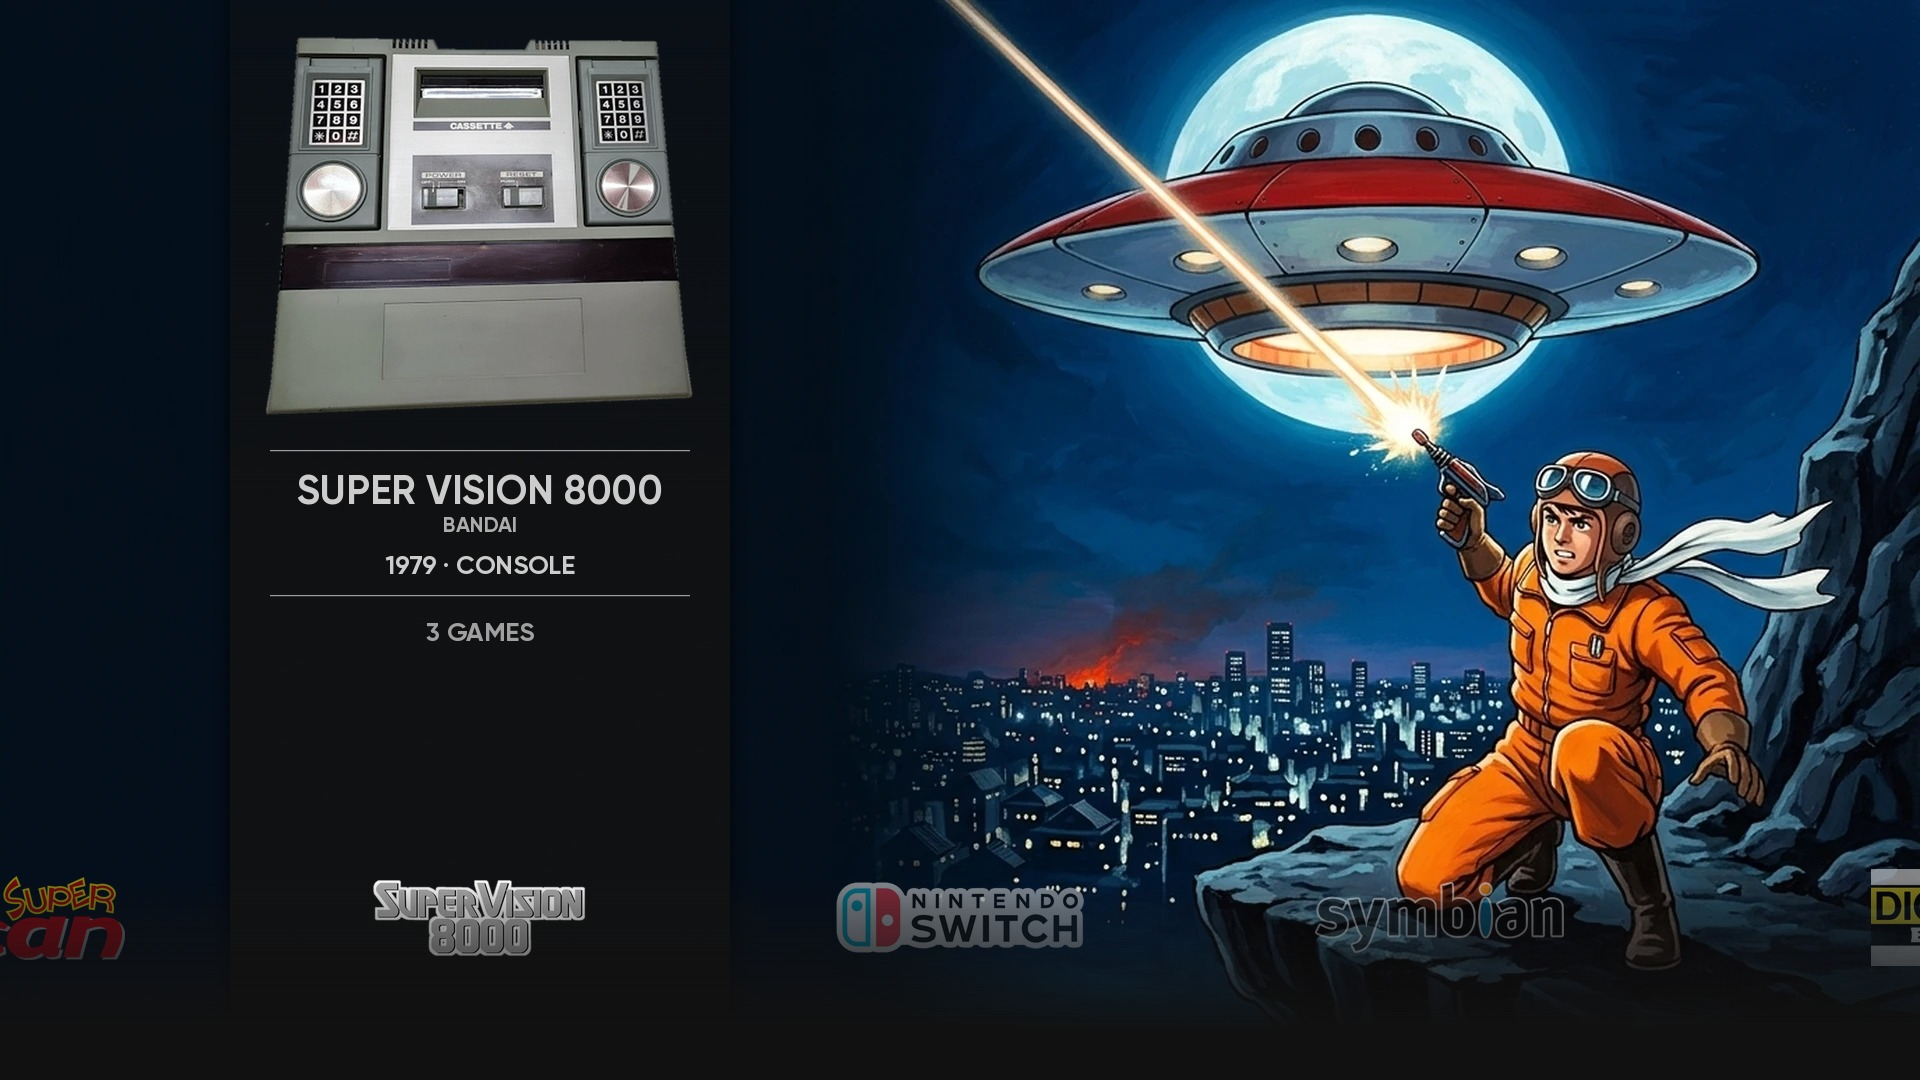
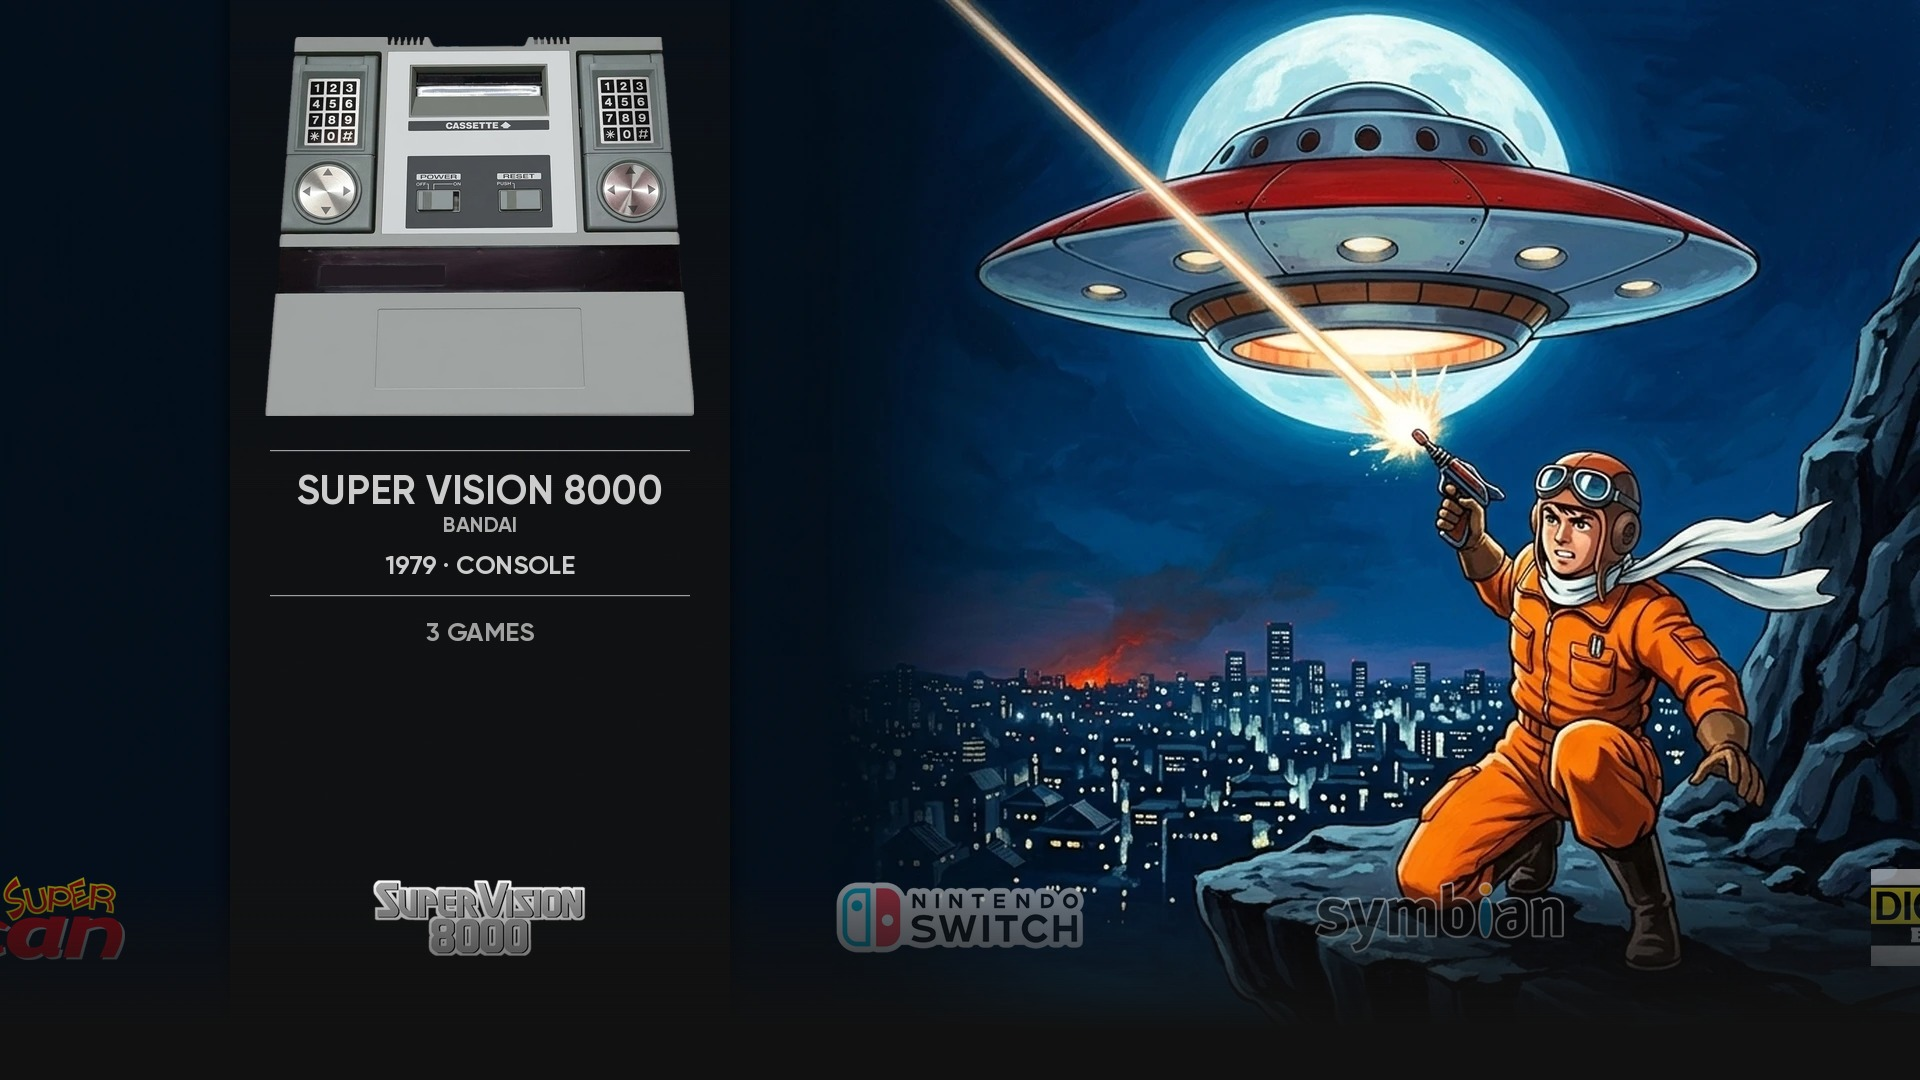
Super Vision 8000: straighten console image
Gemini top-down re-render of the Carbon photo, levelled and symmetrised locally. Old skewed version kept in replaced/.

Claude-Session: https://claude.ai/code/session_01B7tWnGzhwYXUpjDmxMAoUT

Changed region(s): [[0.125, 0.0306, 0.375, 0.3972]]

diff --git a/TODO.md b/TODO.md
@@ -115,7 +115,7 @@ Every system in the PixN build that the original Iconic theme has no art for, wi
 | - [x] | segasystem32 | System 32 | Golden Axe-style barbarian (Gemini) - installed | custom: Gemini-generated early-90s Sega upright cabinet (green screen) | custom |  |
 | - [x] | sorcerer | Sorcerer | Sorcerer vs dragon cavern (Gemini) - installed | custom: Gemini top-down render from the Carbon theme Sorcerer photo | custom |  |
 | - [x] | studio2 | Studio II | Bowling-style strike, giant marble ball vs ten pins (Gemini; built-in Studio II game) - installed | custom: RCA Studio II console photo (Carbon theme, transparent) cropped, 3/4 view | custom |  |
-| - [x] | sv8000 | Super Vision 8000 | Retro pilot vs saucer mothership over a night city (Gemini, generic) - installed | custom: Bandai Super Vision 8000 photo (Carbon theme) cut out | custom |  |
+| - [x] | sv8000 | Super Vision 8000 | Retro pilot vs saucer mothership over a night city (Gemini, generic) - installed | custom: Bandai Super Vision 8000 photo (Carbon theme), Gemini top-down re-render straightened 2026-10-10 | custom |  |
 | - [x] | tvc64 | TVC 64 | Hungarian warrior on winged horse vs three-headed dragon (Gemini) - installed | custom: Gemini top-down render of the Videoton TVC from a public-domain Wikimedia photo | custom |  |
 | - [x] | vemulator | Sega Visual Memory Unit | Round robot companion leaping over a neon ocean (Gemini, generic) - installed | custom: Dreamcast VMU photo (Carbon theme, transparent) cropped and doubled | custom |  |
 | - [x] | vg5k | VG-5000 | Deep-sea diver vs luminous jellyfish, sunken palace (Gemini) - installed | custom: Gemini top-down render of the Philips VG-5000 from the Carbon theme photo | custom |  |

diff --git a/NIGHTLY_LOG.md b/NIGHTLY_LOG.md
@@ -420,3 +420,4 @@ NAS SYNC PENDING (NAS not mounted): copy to /Volumes/stuff/Emulation/TPN Iconic 
 - Nights to complete: 14 at 5 per night (23 at 3 per night)
 
 - 2026-10-10 zinc REDONE after user feedback (side cabinets too faded): new Gemini three-cabinet group with glossy BLACK side cabinets and vivid vinyl (original SCHOOL CLASH and STAR KNIGHT games). Raw: sources/zinc/zinc_cab_3cab_v2_black_gemini_raw.jpeg; faded v1 kept as sources/zinc/zinc_cab_v1_faded.png and replaced/controllers-zinc-v1faded.webp. Installed _inc/controllers/zinc.webp, mockups/zinc.jpg. Lesson: for the side cabinets always say "glossy black bodies, fully saturated, NOT faded/grey" (also aleck64). NAS sync pending adds: new zinc raw and mockup; zip iconic-tpn_20261010_b.zip.
+- 2026-10-10 sv8000: console image straightened on user request (old Carbon photo was twisted/skewed). Gemini flat top-down render of the Carbon photo (sources/sv8000/sv8000_cab_gemini_straight_raw.jpeg), then levelled and made symmetrical locally with a perspective warp (sources/sv8000/sv8000_cab_straight.png). Old one: replaced/controllers-sv8000-skewed.webp. Note: Gemini drew the round knobs with small arrows (look like d-pads); NAS sync pending: mockups/sv8000.jpg, sources/sv8000/.
